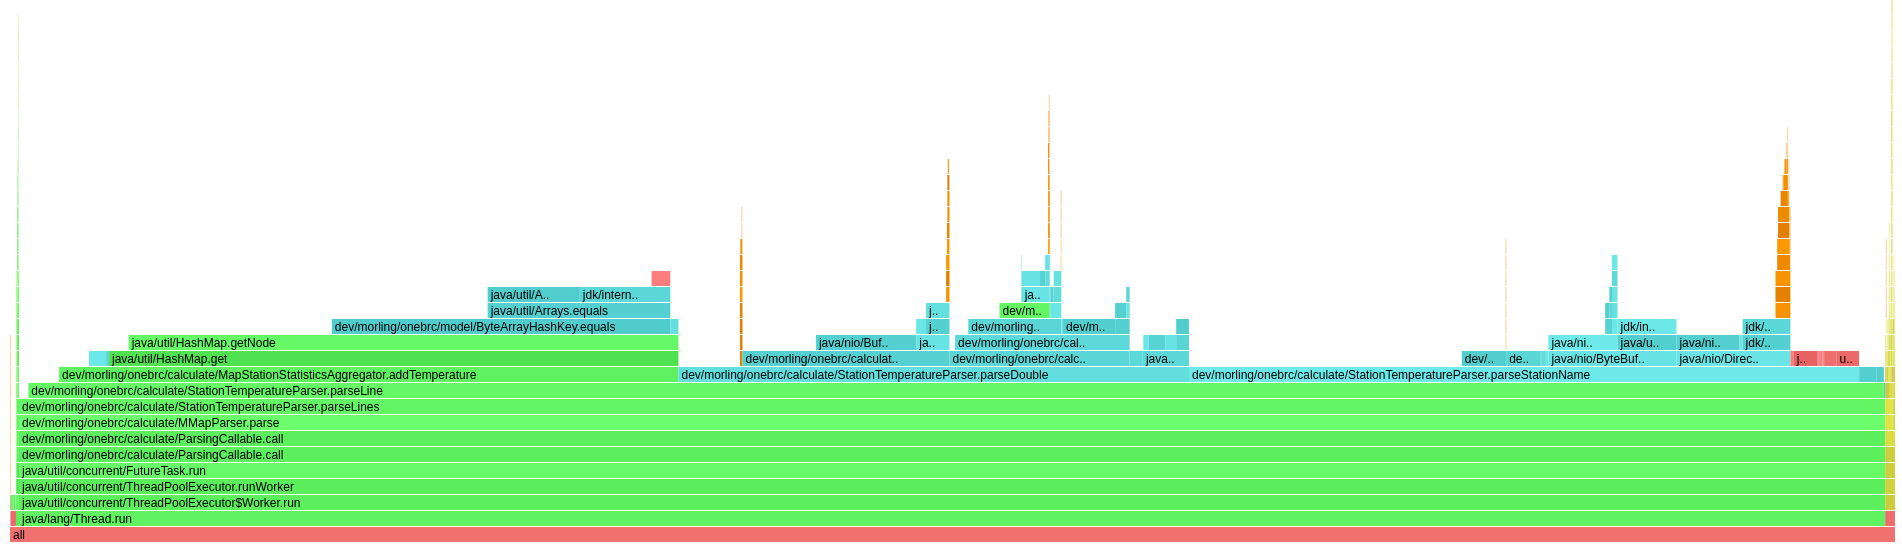
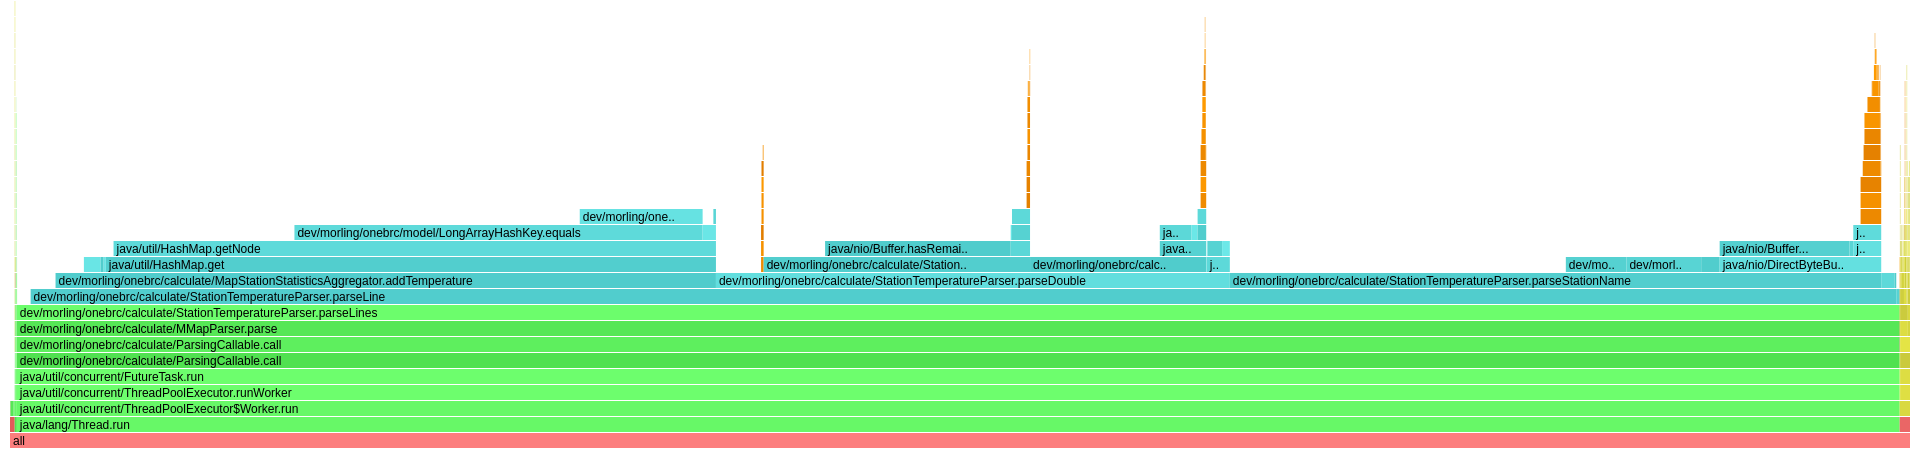
single pass to parse integer part of the double

Changed region(s): [[0.0, 0.0, 1.0, 1.0]]

diff --git a/src/main/java/dev/morling/onebrc/calculate/StationTemperatureParser.java b/src/main/java/dev/morling/onebrc/calculate/StationTemperatureParser.java
@@ -2,7 +2,6 @@ package dev.morling.onebrc.calculate;
 
 import java.nio.ByteBuffer;
 
-import dev.morling.onebrc.model.BaseInteger;
 import dev.morling.onebrc.model.LongArrayHashKey;
 import dev.morling.onebrc.model.StationTemperature;
 
@@ -15,11 +14,16 @@ public class StationTemperatureParser {
     private static final byte ZERO = (byte) '0';
 
     private static final int BASE = 10;
+    /**
+     * Max int is 2^31, 2 GB.
+     * So the max int number will by 2*10^9 in it's base-10 decomposition.
+     * We need a long because a first digit > 2 would overflow an int
+     */
+    private static final long MAX_POW = 1_000_000_000; // 10^9
     private static final int PRIME = 31;
 
     private final LongArrayHashKey longArrayHashKey = new LongArrayHashKey();
     private final StationTemperature stationTemperature = new StationTemperature(longArrayHashKey);
-    private final BaseInteger baseInteger = new BaseInteger();
 
     private final ByteBuffer byteBuffer;
     private final StationStatisticsAggregator stationStatisticsAggregator;
@@ -51,7 +55,7 @@ public class StationTemperatureParser {
         final int start = byteBuffer.position();
 
         // rolling hash
-        int hashCode = 1;
+        long hashCode = 1;
 
         // long buffer
         final long[] key = longArrayHashKey.key();
@@ -63,9 +67,7 @@ public class StationTemperatureParser {
         int j = 0;
 
         byte current;
-        while (byteBuffer.hasRemaining() && (current = byteBuffer.get()) != SEMI_COLON) {
-            hashCode = PRIME * hashCode + current;
-
+        while ((current = byteBuffer.get()) != SEMI_COLON) {
             // apply bit mask, since negative values will have 1's on the left of the binary representation of the byte
             final long b = current & 0xFFL;
             final int shiftBits = j * LongArrayHashKey.BITS_IN_BYTE;
@@ -74,21 +76,27 @@ public class StationTemperatureParser {
 
             if (j == LongArrayHashKey.BYTES_IN_LONG) {
                 key[longPosition++] = longCurrent;
+                hashCode = updateHashCode(hashCode, longCurrent);
                 longCurrent = 0;
                 j = 0;
             }
         }
         if (longCurrent != 0) {
             key[longPosition] = longCurrent;
+            hashCode = updateHashCode(hashCode, longCurrent);
         }
 
-        longArrayHashKey.hashCode(hashCode);
+        longArrayHashKey.hashCode((int) hashCode);
 
         final int length = byteBuffer.position()-1 - start;
         longArrayHashKey.length(length);
 
         // invalidate stale value in cache
         longArrayHashKey.resetName();
+    }
+
+    private long updateHashCode(final long hashCode, final long current) {
+        return (hashCode * PRIME + current) % Integer.MAX_VALUE;
     }
 
     private double parseDouble() {
@@ -102,27 +110,16 @@ public class StationTemperatureParser {
     }
 
     private int parseInt() {
-        parseBaseInteger();
-        return baseInteger.sum();
-    }
-
-    /**
-     * This recursive function reverts the order of the byte sequence.
-     *
-     * It needs to reduce the list of digits from lowest order first to highest order last.
-     */
-    private void parseBaseInteger() {
-        final byte current = byteBuffer.get();
-        if (current == DOT) {
-            baseInteger.power(1);
-            baseInteger.sum(0);
-            return;
+        long sum = 0;
+        long pow = MAX_POW;
+        byte current;
+        while ((current = byteBuffer.get()) != DOT) {
+            final int digit = parseDigit(current);
+            sum += digit * pow;
+            pow /= BASE;
         }
-        parseBaseInteger();
-
-        final int digit = parseDigit(current);
-        baseInteger.sum(baseInteger.sum() + baseInteger.power() * digit);
-        baseInteger.power(BASE * baseInteger.power());
+        sum /= (BASE * pow);
+        return (int) sum;
     }
 
     /**
@@ -136,6 +133,7 @@ public class StationTemperatureParser {
         double sum = 0;
         double invPow = 1d / BASE;
         byte current;
+        // need to check if buffer is full for the last line hitting the end of the stream
         while (byteBuffer.hasRemaining() && (current = byteBuffer.get()) != LINE_FEED) {
             sum += invPow * parseDigit(current);
             invPow /= BASE;

diff --git a/bar_chart.py b/bar_chart.py
@@ -14,8 +14,8 @@ max_threads = 12
 total_count = 10**9
 df['throughput'] = total_count / df['Score']
 
-byte_buffer = df[df['Benchmark'] == "concurrentByteBuffer"]
-mmap = df[df['Benchmark'] == "concurrentMmap"]
+byte_buffer = df[df['Benchmark'] == "byteBuffer"]
+mmap = df[df['Benchmark'] == "mmap"]
 
 score1 = byte_buffer[byte_buffer['(concurrency)'] == 1].iloc[0]['Score']
 byte_buffer['acceleration'] = score1 / byte_buffer['Score']

diff --git a/README.md b/README.md
@@ -1,8 +1,12 @@
+# Introduction
+
+This [article](https://medium.com/@alexisdetrglod/1-billion-row-challenge-in-java-35414b803441) describes a performance optimization problem for a large event stream processing. Both Individual Contributors and Engineering Managers will be able to learn about the methodology, best practices and lessons learnt in order to tackle similar problems that may arise in their work environment.
+
 # Challenge
 
 The *[1 Billion row challenge](https://github.com/gunnarmorling/1brc)* consists of parsing a large csv file as fast as possible on a single host, in **Java**.
 
-Each line in the file contains a city name where a weather station is located, associated with a temperature measurement.
+Each line in the file contains a city name where the weather station is located, associated with a temperature measurement.
 
 ```
 Tokyo;35.6897
@@ -29,7 +33,7 @@ The code for the solutions is available in Github repo:
 
 > [https://github.com/alexis779/1BillionRowChallenge](https://github.com/alexis779/1BillionRowChallenge)
 
-See below the runtime comparison of the versions implemented in the project.
+Here’s the runtime comparison of the versions implemented in the project.
 
 ![Version comparison](runtime_comparison_versions.png)
 
@@ -39,6 +43,8 @@ See below the runtime comparison of the versions implemented in the project.
 | baseline| The solution proposed by the organizer|
 |split| `String.split` |
 |substring| `String.indexOf`, `String.substring` |
+|byteBuffer1| Fixed size buffer with 1 thread|
+|byteBuffer6| Fixed size buffer with 6 threads|
 |mmap1| MMap with 1 thread|
 |mmap6| MMap with 6 threads|
 
@@ -51,7 +57,7 @@ A concurrency of `6` yields a throughput multiplication factor of `5`, which is 
 
 ![Multi-threading](runtime_comparison_concurrency.png)
 
-A lack of parallelization gain beyond a concurrency `6` would indicate a limitation of the SMT architecture for IO-bound application ?
+A lack of parallelization gain beyond a concurrency `6` would indicate a limitation of the SMT architecture for IO heavy application.
 
 
 ## Best practices
@@ -72,7 +78,7 @@ Multi-threading leverages multi-core processor, effectively dividing the load ac
 
 ### Scan the stream once
 
-Iterating through byte array is an expensive operation. To avoid re-scanning parts of the sequence, the parser should precompute all the necesary values in the first pass. The city name needs the byte array, length and hash key. The temperature needs the sign, the integer part and the fractional part of the floating number. For example when scanning the digits that make up the integer part, the parser needs to traverse them in reverse order. It can then reduce the sequence of digits in base 10 into a sum.
+Iterating through byte array is an expensive operation. To avoid re-scanning parts of the sequence, the parser should precompute all the necesary values in the first pass. The city name needs the *byte array*, *length* and *hash key*. The temperature needs the *sign*, the *integer part* and the *fractional part* of the floating number.
 
 ### Reuse objects
 
@@ -80,14 +86,14 @@ Creating a new Object for each row over a 1B dataset causes high memory pressure
 
 ### Use MMap
 
-Large portions of the file (up to 2 GB) can be memory-mapped. This OS feature provides a convenient abstraction for the parser. It can then read the stream sequentially, as if it was accessing a single buffer like an array in memory. The OS takes care of buffering. It saves the application from reading bytes by batch of fixed size, having to figure out the start offset of the first full line, the end offset of the last full line and stitch together the lines overlapping with the previous or the next batch.
+Large portions of the file can be memory-mapped. The max size of a portion that the JVM can memory-map is 2 GB. This OS feature provides a convenient abstraction for the parser, allowing it to read the stream sequentially, as if it was accessing a single buffer like an array in memory. The OS instead takes care of buffering. It saves the application from reading bytes by batch of fixed size, having to figure out the start offset of the first full line, the end offset of the last full line and stitch together the lines overlapping with the previous or the next batch.
 
 ### To be continued
 
 
 ## CPU profile
 
-Looking at the flame graph, CPU time breaks down into the main operations
+Looking at the CPU sampling and the flame graph, the main hotspots are
 
 | Step | Operation | method |
 | --- | --- | --- |
@@ -95,4 +101,11 @@ Looking at the flame graph, CPU time breaks down into the main operations
 2 | parsing the temperature value | `parseDouble`
 3 | looking up the city name in the hash map | `HashMap.get`
 
+![CPU Profile](./cpu_profile.png)
+
 ![Flame Graph](./flamegraph_cpu.png)
+
+
+# Conclusion
+
+This challenge [Gunnar Morling](https://twitter.com/gunnarmorling) initiated in the Java community is an amazing learning experience for both junior and senior Java developers, looking to hone their own skills in system performance.
